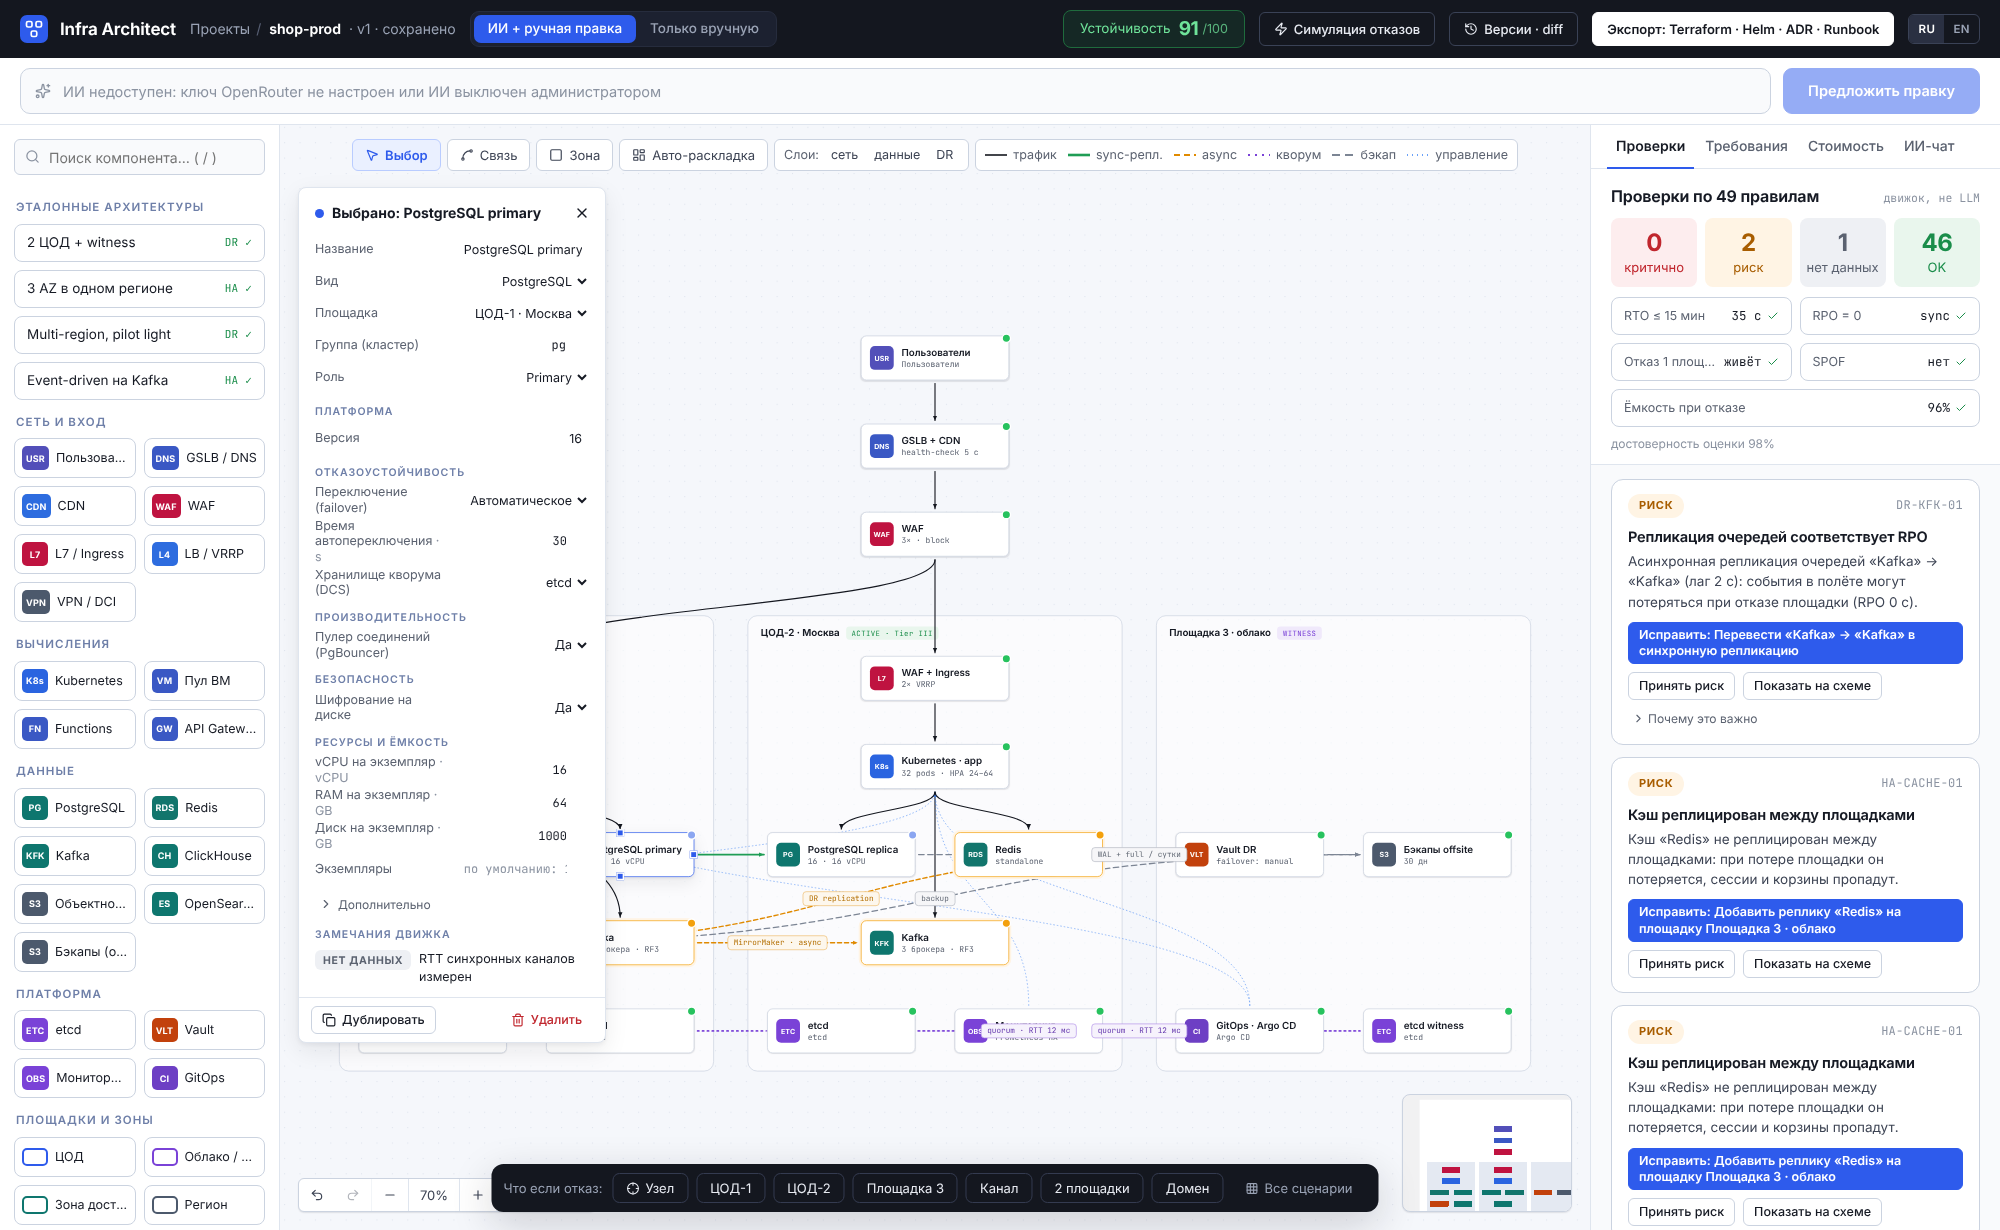
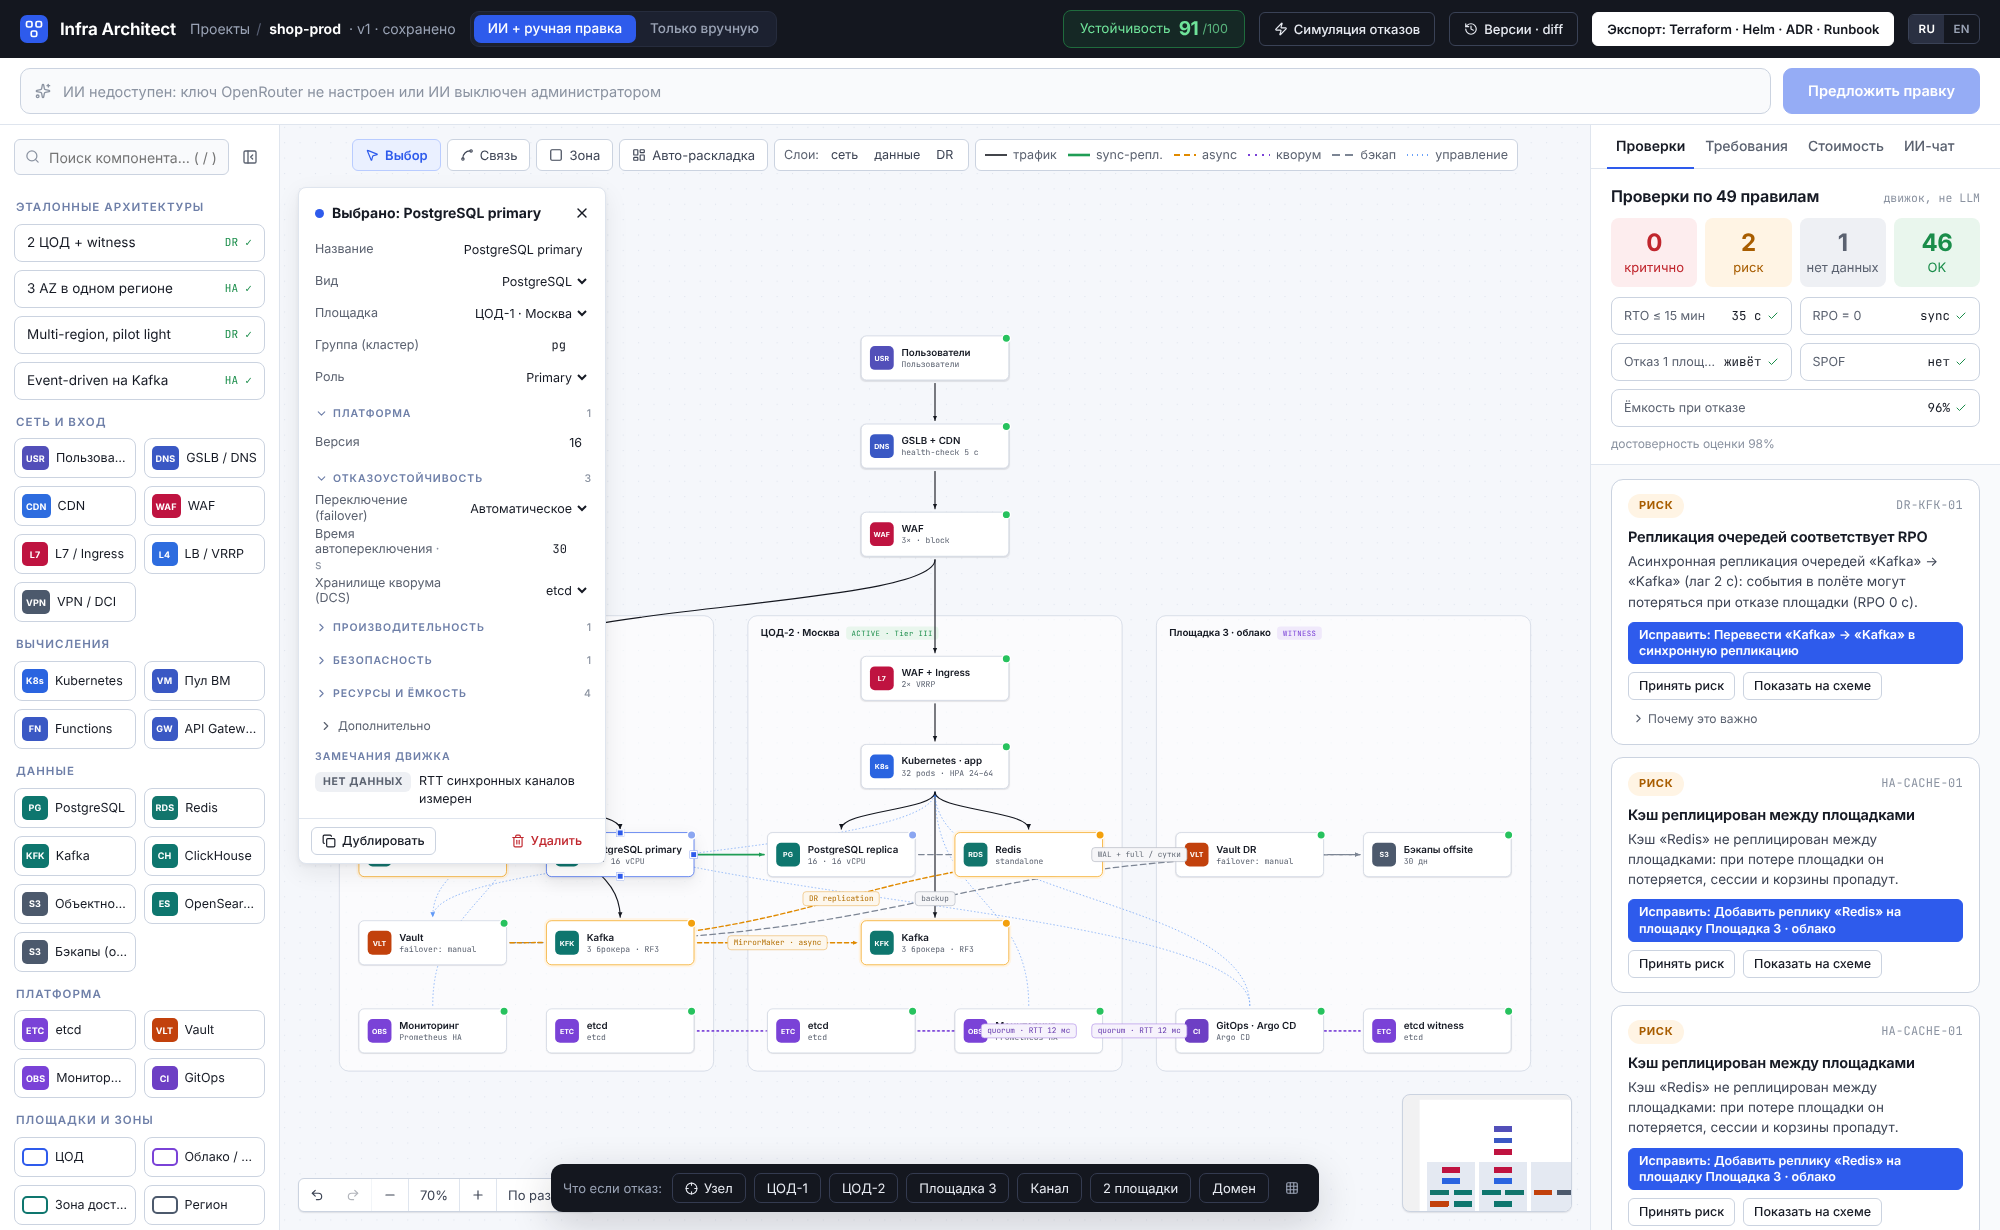
UI: collapsible library, narrow-screen layout, confidence indicator; README screenshots
Claude-Session: https://claude.ai/code/session_01U9zdhV68xXry3pmTCRhwqU

diff --git a/frontend/src/editor/Canvas.vue b/frontend/src/editor/Canvas.vue
@@ -3,12 +3,13 @@ import { computed, markRaw, nextTick, onMounted, ref, watch } from 'vue'
 import { ConnectionMode, VueFlow, useVueFlow, type NodeDragEvent } from '@vue-flow/core'
 import { Background } from '@vue-flow/background'
 import { MiniMap } from '@vue-flow/minimap'
-import { LayoutDashboard, Minus, MousePointer2, Plus, Redo2, Spline, Square, Undo2 } from 'lucide-vue-next'
+import { LayoutDashboard, Minus, MousePointer2, PanelLeftOpen, Plus, Redo2, Spline, Square, Undo2 } from 'lucide-vue-next'
 import '@vue-flow/core/dist/style.css'
 import '@vue-flow/minimap/dist/style.css'
 import { lt, t } from '@/i18n'
 import { useApp } from '@/stores/app'
 import { useEditor, type Layer } from '@/stores/editor'
+import { useUi } from '@/stores/ui'
 import ArchEdge from './ArchEdge.vue'
 import ArchNode from './ArchNode.vue'
 import ArchZone from './ArchZone.vue'
@@ -17,6 +18,7 @@ import { MIN_ZONE_H, MIN_ZONE_W } from './layout'
 
 const app = useApp()
 const editor = useEditor()
+const ui = useUi()
 const nodeTypes = { card: markRaw(ArchNode), zone: markRaw(ArchZone) } as any
 const edgeTypes = { arch: markRaw(ArchEdge) } as any
 
@@ -185,7 +187,8 @@ function nodeColor(n: { id: string; type?: string }) {
       <div v-if="drawRect" class="draw-rect" :style="drawRect" />
     </div>
 
-    <div class="toolbar">
+    <button v-if="!ui.libraryOpen" class="open-lib" :title="t('library.expand')" :aria-label="t('library.expand')" @click="ui.libraryOpen = true"><PanelLeftOpen :size="16" /></button>
+    <div class="toolbar" :class="{ shifted: !ui.libraryOpen }">
       <template v-if="app.canEdit">
         <button class="tool" :class="{ on: editor.tool === 'select' }" @click="editor.setTool('select')"><MousePointer2 :size="14" />{{ t('tool.select') }}</button>
         <button class="tool" :class="{ on: editor.tool === 'connect' }" :disabled="editor.readonly" @click="editor.setTool('connect')"><Spline :size="14" />{{ t('tool.connect') }}</button>
@@ -243,6 +246,9 @@ function nodeColor(n: { id: string; type?: string }) {
 .draw-layer { position: absolute; inset: 0; z-index: 50; cursor: crosshair; }
 .draw-rect { position: absolute; border: 1.5px dashed var(--accent); background: rgba(46, 91, 236, .06); border-radius: 12px; }
 
+.open-lib { position: absolute; top: 14px; left: 14px; z-index: 61; width: 32px; height: 32px; display: inline-flex; align-items: center; justify-content: center; border: 1px solid var(--line-strong); border-radius: var(--radius-sm); background: var(--surface); color: var(--text-2); }
+.open-lib:hover { background: var(--surface-2); }
+.toolbar.shifted { left: 56px; }
 .toolbar { position: absolute; top: 14px; left: 16px; right: 16px; display: flex; align-items: center; gap: 6px; z-index: 60; flex-wrap: wrap; justify-content: center; pointer-events: none; }
 .toolbar > * { pointer-events: auto; }
 .tool { display: inline-flex; align-items: center; gap: 6px; height: 32px; padding: 0 12px; border: 1px solid var(--line-strong); border-radius: var(--radius-sm); background: var(--surface); color: var(--text-2); font-size: 13px; }

diff --git a/frontend/src/editor/Library.vue b/frontend/src/editor/Library.vue
@@ -1,6 +1,6 @@
 <script setup lang="ts">
 import { computed, ref } from 'vue'
-import { Search } from 'lucide-vue-next'
+import { PanelLeftClose, Search } from 'lucide-vue-next'
 import * as api from '@/api/endpoints'
 import type { KindDef, TemplateMeta, Architecture } from '@/api/types'
 import Modal from '@/components/Modal.vue'
@@ -8,11 +8,13 @@ import { lt, t } from '@/i18n'
 import { errorMessage } from '@/lib/format'
 import { useApp } from '@/stores/app'
 import { useEditor } from '@/stores/editor'
+import { useUi } from '@/stores/ui'
 import { useToasts } from '@/stores/toasts'
 
 const app = useApp()
 const editor = useEditor()
 const toasts = useToasts()
+const ui = useUi()
 
 const q = ref('')
 const input = ref<HTMLInputElement | null>(null)
@@ -57,14 +59,15 @@ function applyTemplate(mode: 'replace' | 'add') {
   pending.value = null
 }
 
-defineExpose({ focus: () => input.value?.focus() })
+defineExpose({ focus: () => { ui.libraryOpen = true; setTimeout(() => input.value?.focus(), 30) } })
 </script>
 
 <template>
-  <aside class="library">
+  <aside v-show="ui.libraryOpen" class="library">
     <div class="search">
       <Search :size="15" />
       <input ref="input" v-model="q" class="input" :placeholder="t('library.search') + ' ( / )'" @keydown.esc="q = ''; input?.blur()" />
+      <button class="collapse" :title="t('library.collapse')" :aria-label="t('library.collapse')" @click="ui.libraryOpen = false"><PanelLeftClose :size="16" /></button>
     </div>
 
     <div class="scroll">
@@ -115,9 +118,11 @@ defineExpose({ focus: () => input.value?.focus() })
 
 <style scoped>
 .library { width: var(--sidebar-w); flex: none; background: var(--surface); border-right: 1px solid var(--line); display: flex; flex-direction: column; min-height: 0; }
-.search { position: relative; padding: 14px 14px 10px; }
-.search svg { position: absolute; left: 25px; top: 24px; color: var(--faint); }
-.search .input { padding-left: 34px; height: 36px; background: var(--surface-2); }
+.search { position: relative; padding: 14px 14px 10px; display: flex; align-items: center; gap: 6px; }
+.collapse { flex: none; width: 30px; height: 30px; border: 0; background: transparent; color: var(--muted); border-radius: var(--radius-sm); display: inline-flex; align-items: center; justify-content: center; }
+.collapse:hover { background: var(--surface-sunken); color: var(--text); }
+.search > svg:first-child { position: absolute; left: 25px; top: 24px; color: var(--faint); }
+.search .input { padding-left: 34px; height: 36px; background: var(--surface-2); flex: 1; min-width: 0; }
 .scroll { flex: 1; overflow: auto; padding: 0 14px 18px; }
 section { margin-top: 14px; }
 h4 { font-size: 11.5px; letter-spacing: .09em; text-transform: uppercase; color: #6e7fa8; font-weight: 600; margin: 0 0 8px 2px; }

diff --git a/frontend/src/editor/EditorHeader.vue b/frontend/src/editor/EditorHeader.vue
@@ -23,6 +23,8 @@ const toasts = useToasts()
 
 const score = computed(() => (editor.isEmpty ? null : editor.report?.score.value ?? null))
 const tone = computed(() => scoreTone(score.value))
+const confidence = computed(() => (editor.isEmpty || !editor.report ? null : Math.round(editor.report.score.coverage * 100)))
+const lowConfidence = computed(() => confidence.value !== null && confidence.value < 70)
 const saveText = computed(() => {
   switch (editor.saveState) {
     case 'saved': return t('editor.save.saved')
@@ -67,8 +69,8 @@ async function leave() {
       <button :class="{ on: ui.aiMode === 'manual' }" @click="ui.aiMode = 'manual'">{{ t('editor.mode.manual') }}</button>
     </div>
     <span class="spacer" />
-    <button class="score" :class="tone" :title="t('editor.score.title')" @click="ui.modal = 'score'">
-      {{ t('editor.score') }}<b>{{ score === null ? '—' : Math.round(score) }}</b><span>/100</span>
+    <button class="score" :class="[tone, lowConfidence && 'weak']" :title="lowConfidence ? t('checks.confidence.hint') : t('editor.score.title')" @click="ui.modal = 'score'">
+      {{ t('editor.score') }}<b>{{ score === null ? '—' : Math.round(score) }}</b><span>/100</span><i v-if="lowConfidence" class="conf">{{ t('editor.score.confidence', { pct: confidence ?? 0 }) }}</i>
     </button>
     <button class="btn btn-dark" @click="ui.modal = 'matrix'"><Zap :size="14" />{{ t('editor.sim') }}</button>
     <button class="btn btn-dark" @click="ui.modal = 'versions'"><History :size="14" />{{ t('editor.versions') }}</button>
@@ -99,6 +101,8 @@ async function leave() {
 .score.ok { color: #6fe39a; border-color: #1f6b3d; background: rgba(39, 194, 94, .1); }
 .score.risk { color: #ffc266; border-color: #7a5410; background: rgba(243, 160, 12, .1); }
 .score.crit { color: #ff8a8f; border-color: #8a2a30; background: rgba(192, 38, 45, .12); }
+.score.weak { border-style: dashed; }
+.score .conf { font-style: normal; font-size: 11.5px; opacity: .85; margin-left: 2px; }
 .score.none { color: var(--on-dark-muted); border-color: #3a4256; }
 .long { display: inline; } .short { display: none; }
 @media (max-width: 1600px) { .long { display: none; } .short { display: inline; } .crumbs .meta { display: none; } }

diff --git a/frontend/src/editor/WhatIfBar.vue b/frontend/src/editor/WhatIfBar.vue
@@ -72,7 +72,7 @@ const isNodeActive = computed(() => active.value?.type === 'node' || active.valu
 
 <style scoped>
 .whatif { position: absolute; left: 50%; bottom: 18px; transform: translateX(-50%); width: max-content; z-index: 60; display: flex; align-items: center; gap: 8px; padding: 9px 12px; background: var(--ink); color: var(--on-dark); border-radius: 12px; box-shadow: var(--shadow-3); max-width: calc(100% - 420px); flex-wrap: wrap; }
-@container (max-width: 1250px) { .whatif { left: 330px; right: 18px; transform: none; width: auto; max-width: none; justify-content: center; } }
+@container (max-width: 1250px) { .whatif { left: 18px; right: 18px; bottom: 62px; transform: none; width: auto; max-width: none; justify-content: center; } }
 .lbl { font-size: 13px; color: var(--on-dark-muted); margin-right: 2px; white-space: nowrap; }
 .w { display: inline-flex; align-items: center; gap: 6px; height: 30px; padding: 0 12px; background: transparent; border: 1px solid #343b50; border-radius: 7px; color: var(--on-dark); font-size: 13px; white-space: nowrap; }
 .w:hover { background: var(--ink-3); border-color: #4a5470; }

diff --git a/frontend/src/stores/ui.ts b/frontend/src/stores/ui.ts
@@ -15,10 +15,14 @@ export const useUi = defineStore('ui', () => {
   const tab = ref<RightTab>('checks')
   const modal = ref<ModalKind>(null)
   const showSimDetails = ref(true)
+  // on small screens the library starts collapsed (an explicit choice is remembered)
+  const stored = read('ia_library')
+  const libraryOpen = ref(stored ? stored === 'open' : window.innerWidth >= 1500)
 
   watch(aiMode, (v) => write('ia_ai_mode', v))
+  watch(libraryOpen, (v) => write('ia_library', v ? 'open' : 'closed'))
   /** AI features are usable: the server has a key, the user did not switch to manual mode. */
   const aiOn = computed(() => aiMode.value === 'ai' && ai.enabled)
 
-  return { aiMode, tab, modal, showSimDetails, aiOn }
+  return { aiMode, tab, modal, showSimDetails, libraryOpen, aiOn }
 })

diff --git a/frontend/src/views/ProjectsView.vue b/frontend/src/views/ProjectsView.vue
@@ -128,6 +128,7 @@ onMounted(load)
               <span v-if="p.summary.counts.risk" class="tag tag-risk">{{ p.summary.counts.risk }} {{ t('checks.risk') }}</span>
               <span v-if="p.summary.counts.noData" class="tag tag-nodata">{{ p.summary.counts.noData }} {{ t('checks.nodata') }}</span>
               <span v-if="!p.summary.counts.critical && !p.summary.counts.risk && !p.summary.counts.noData" class="tag tag-ok">{{ t('checks.none') }}</span>
+              <span v-if="p.summary.coverage < 0.7" class="tag tag-nodata" :title="t('checks.confidence.hint')">{{ t('editor.score.confidence', { pct: Math.round(p.summary.coverage * 100) }) }}</span>
             </div>
           </div>
           <div class="foot faint">

diff --git a/frontend/src/i18n/ru.ts b/frontend/src/i18n/ru.ts
@@ -480,4 +480,7 @@ export default {
   'versions.drift.accept.confirm': 'Текущая схема будет заменена импортированной. Состояние можно вернуть через отмену или версию.',
   'compare.banner': 'Сравнение: {label}',
   'compare.exit': 'Выйти',
+  'library.collapse': 'Свернуть библиотеку',
+  'library.expand': 'Показать библиотеку',
+  'editor.score.confidence': 'достоверность {pct}%',
 } as Record<string, string>

diff --git a/frontend/src/editor/SimDetails.vue b/frontend/src/editor/SimDetails.vue
@@ -36,4 +36,5 @@ header { display: flex; align-items: center; gap: 8px; margin: -4px -8px 2px 0; 
 h5 { margin: 6px 0; font-size: 10.5px; letter-spacing: .09em; text-transform: uppercase; color: #6e7fa8; font-weight: 600; }
 ul { margin: 0; padding-left: 16px; display: flex; flex-direction: column; gap: 6px; font-size: 12.5px; line-height: 1.45; color: var(--text-2); }
 .small { font-size: 12px; margin: 8px 0 0; }
+@container (max-width: 1260px) { .simcard { top: 104px; max-height: calc(100% - 280px); } }
 </style>

diff --git a/frontend/src/i18n/en.ts b/frontend/src/i18n/en.ts
@@ -480,4 +480,7 @@ export default {
   'versions.drift.accept.confirm': 'The current architecture will be replaced by the imported one. You can undo or restore a version.',
   'compare.banner': 'Comparison: {label}',
   'compare.exit': 'Exit',
+  'library.collapse': 'Collapse the library',
+  'library.expand': 'Show the library',
+  'editor.score.confidence': 'confidence {pct}%',
 } as Record<string, string>

diff --git a/frontend/src/editor/Inspector.vue b/frontend/src/editor/Inspector.vue
@@ -237,4 +237,5 @@ select.in { text-align-last: right; padding-right: 2px; }
 .finds li { display: flex; align-items: flex-start; gap: 8px; }
 footer { display: flex; align-items: center; gap: 8px; padding: 8px 12px; border-top: 1px solid var(--line); }
 .del { color: var(--crit); }
+@container (max-width: 1260px) { .inspector { top: 104px; max-height: calc(100% - 280px); } }
 </style>

diff --git a/README.md b/README.md
@@ -4,7 +4,9 @@
 детерминированный движок проверяет, переживёт ли она отказ экземпляра, площадки (ЦОД/AZ) и катастрофу в целом — и показывает *почему*.
 LLM (через [OpenRouter](https://openrouter.ai)) только **предлагает**; истина — в движке, а изменения применяются после просмотра diff.
 
-![Инфраструктурный редактор: схема, проверки, симуляция отказов](docs/images/editor.png)
+![Редактор: схема, инспектор, проверки движка](docs/images/editor.png)
+
+![Симуляция потери ЦОД-1: что произойдёт, переключение, RPO, ёмкость](docs/images/simulation.png)
 
 ## Что внутри
 
